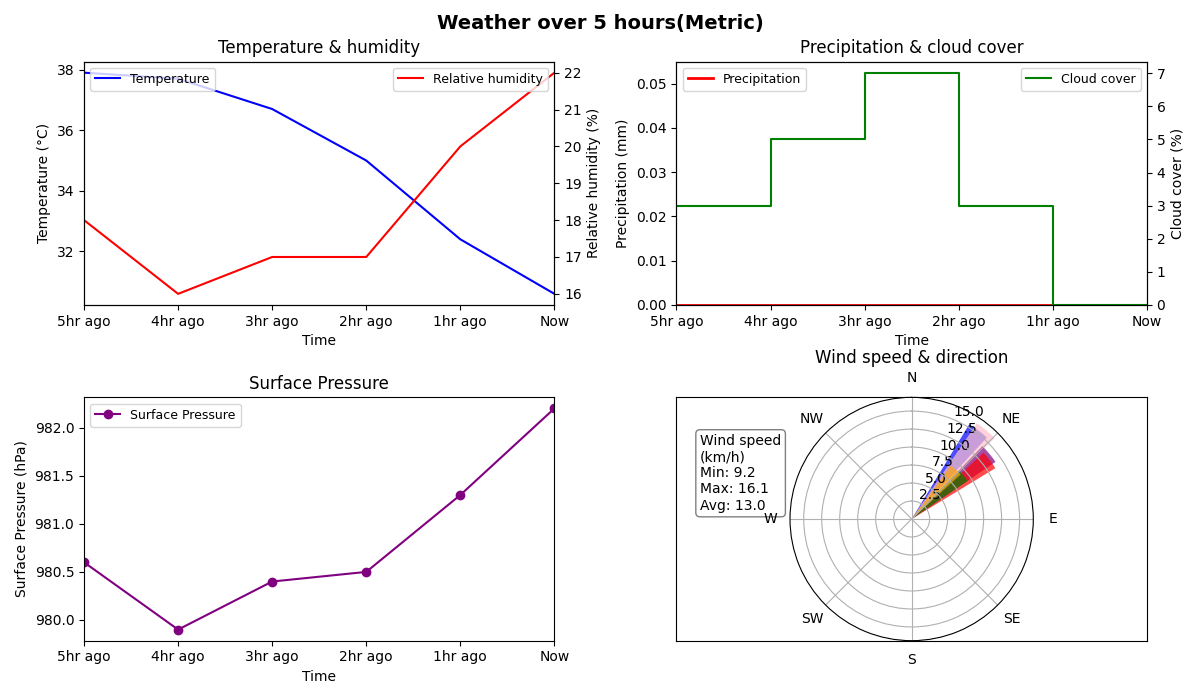
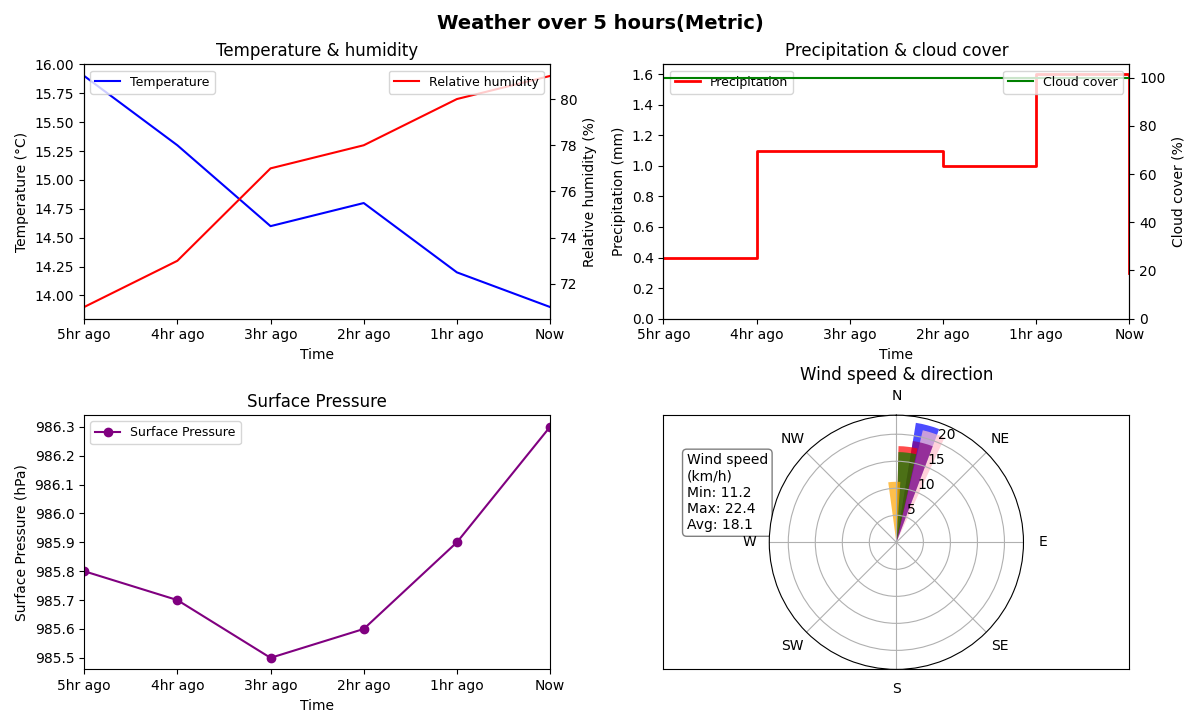
Updated README and the 5 hour metric image

diff --git a/README.md b/README.md
@@ -60,7 +60,7 @@ pip install -r requirements.txt
 
 ### Hourly data
 
-Weather in Kota, India in the last 5 hours in Metric units:
+Weather in Athens, Greece in the last 5 hours in Metric units:
 
 <img src="./img/5_hours_metric.png" alt="5_hours_metric" height="800">
 
